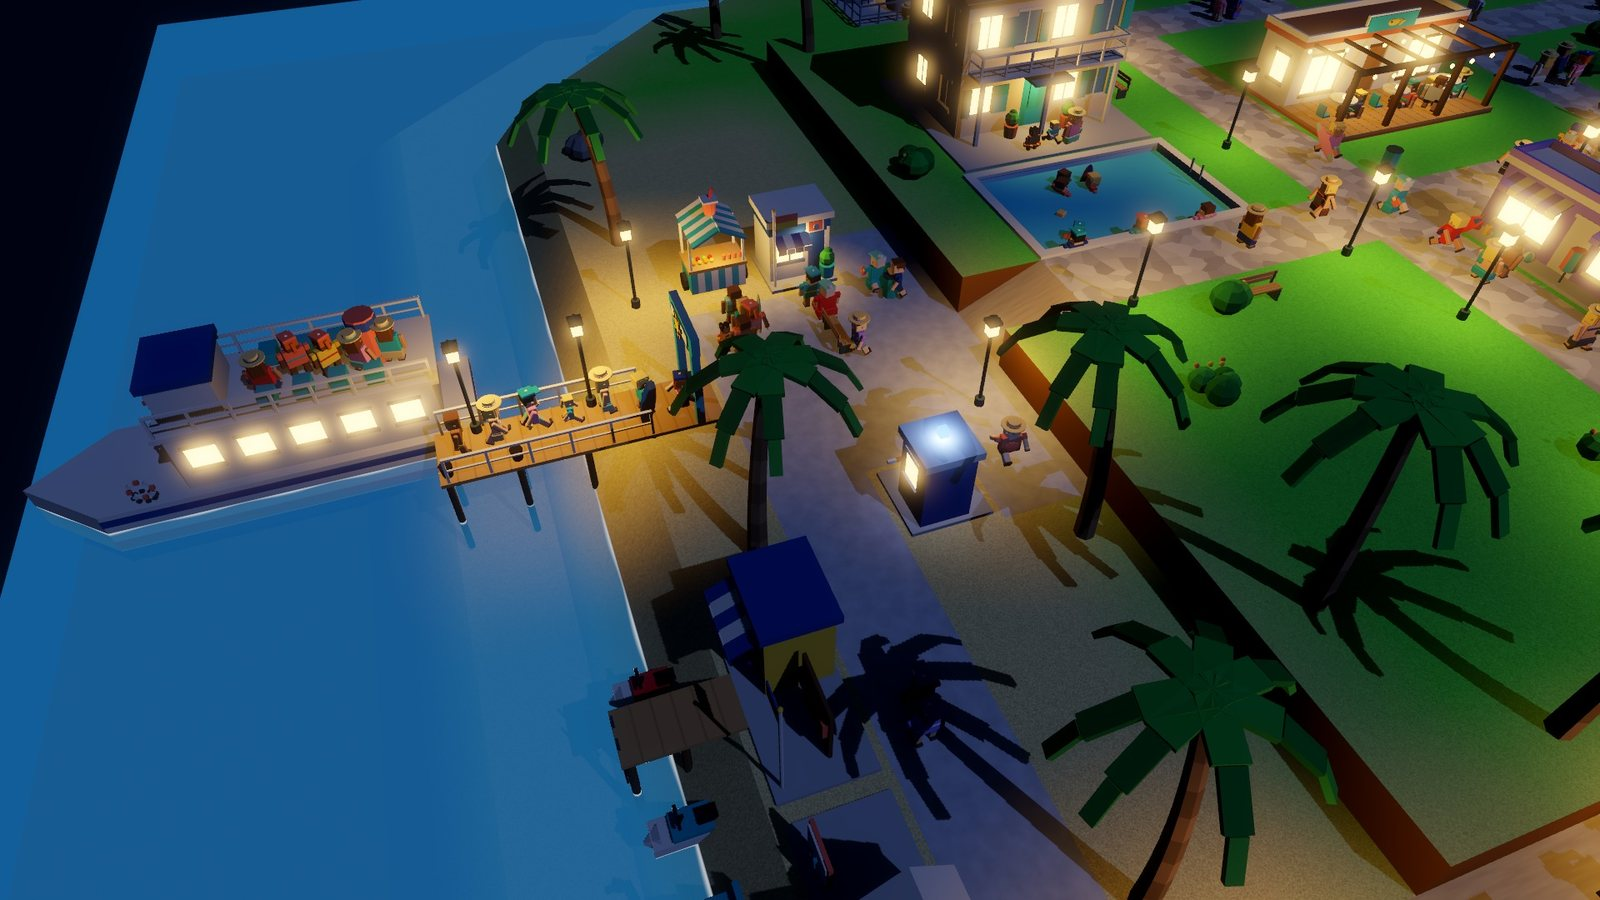
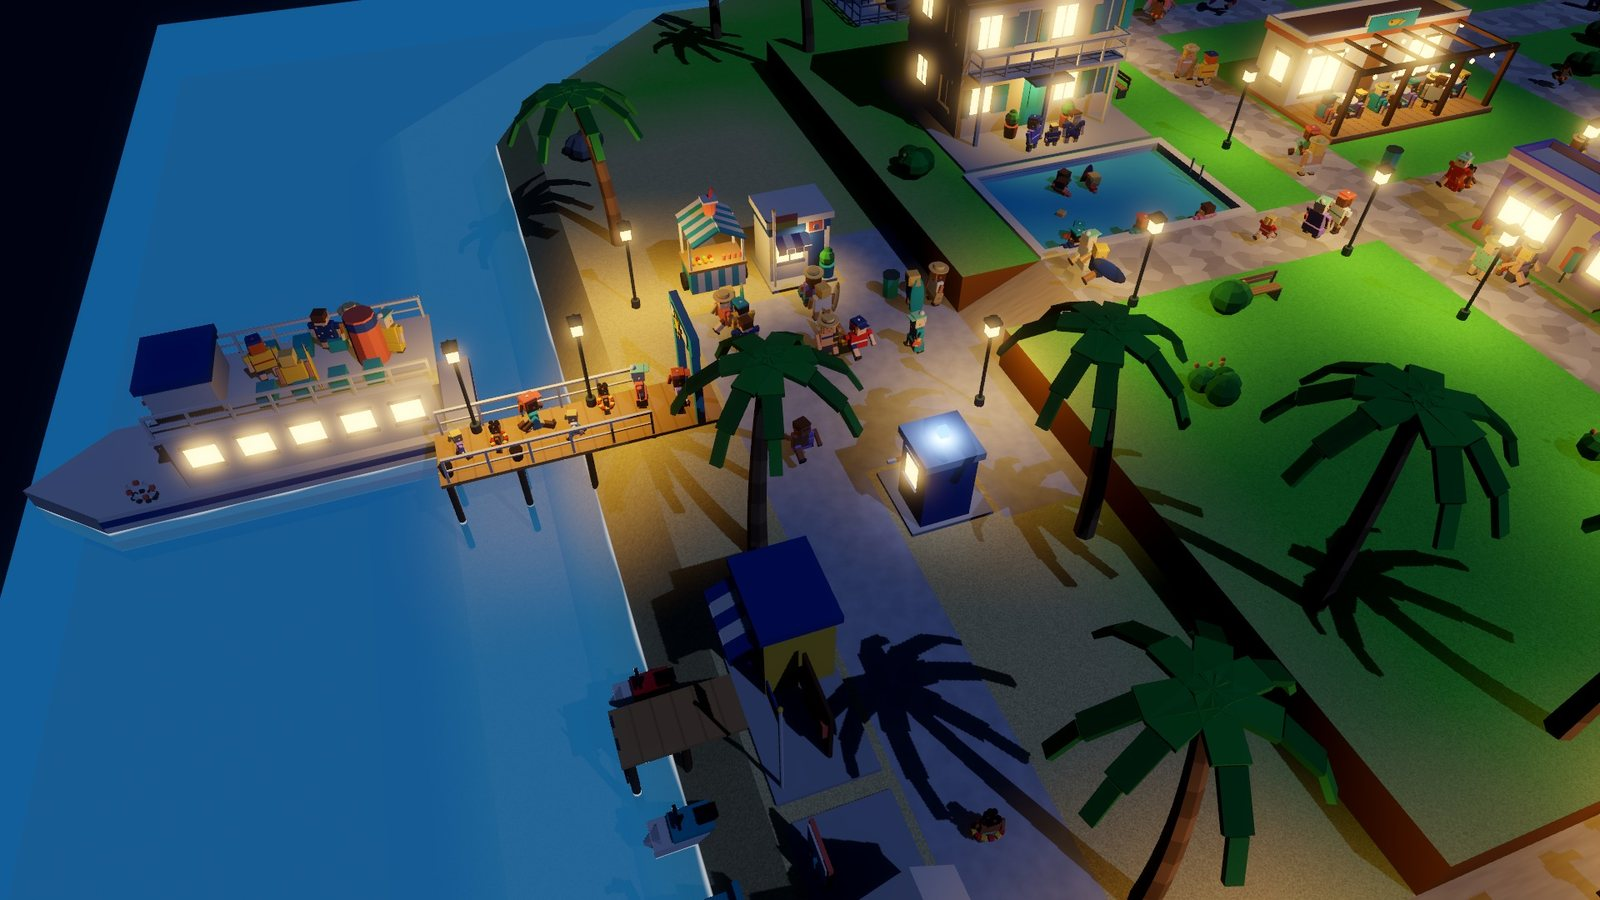
Join up the island paths

diff --git a/index.html b/index.html
@@ -107,7 +107,7 @@ footer p { margin: 0; }
   </section>
 
   <footer>
-    <p>The island is 96 × 96 m with 24 buildings and 188 guests. All views use the 45° camera.</p>
+    <p>The island is 96 × 96 m with 24 buildings and 191 guests. All views use the 45° camera.</p>
     <p class="num">Frame time on an Apple M1 Max at 1920 × 1080 with the whole island in view: low-poly 3.4 ms, voxel 5.0 ms.</p>
     <p>Rendered in Godot 4.6. This is a test scene built for the comparison, not final game content.</p>
   </footer>
